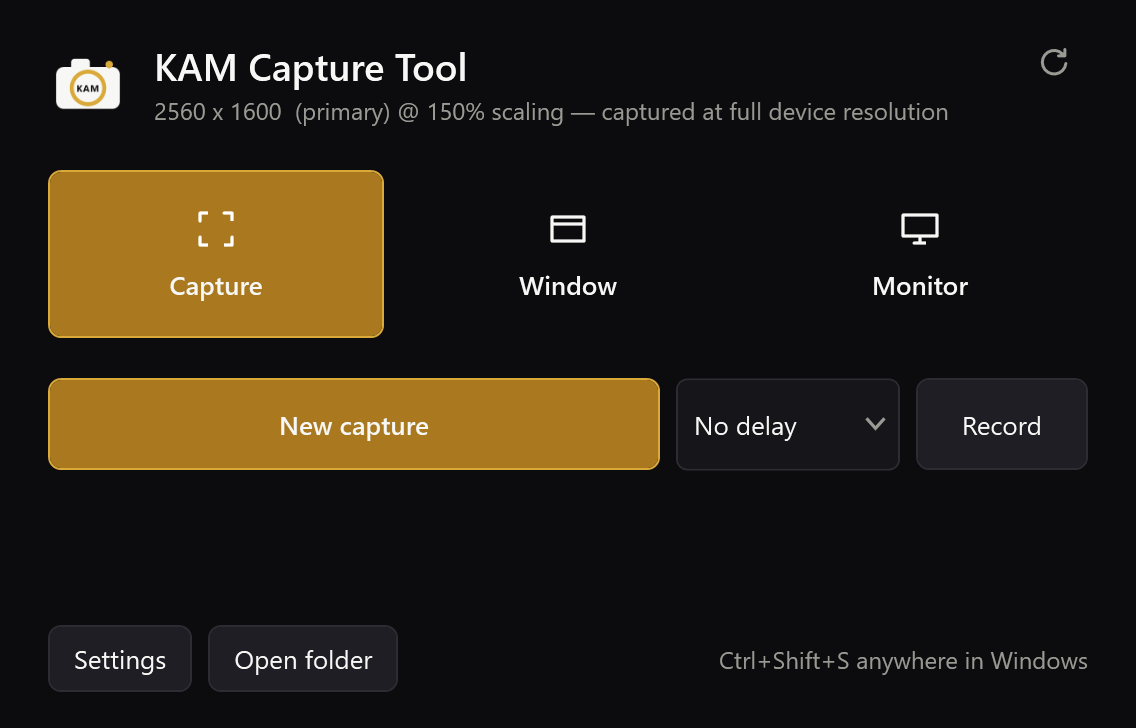
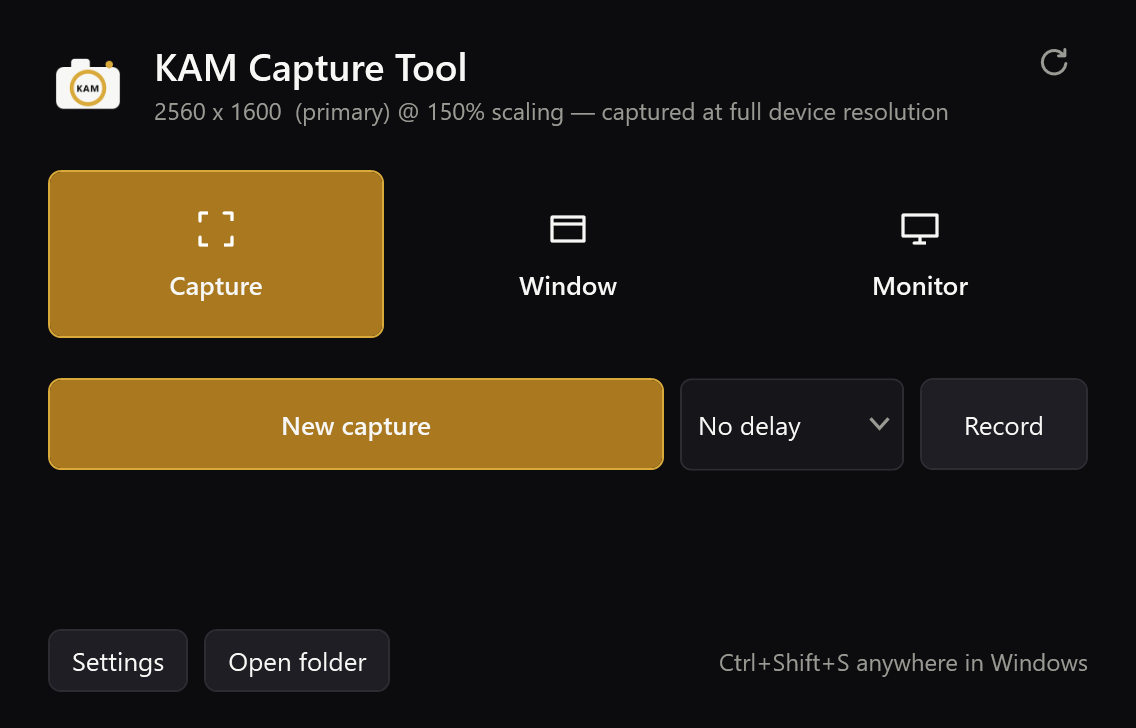
Give the interface a motion vocabulary, and build without warnings
Four durations, one easing, two properties. Press is 90ms of opacity and a 2%
scale down; release is 120ms back to rest; hover and state changes are a 140ms
fade. Hover is an overlay faded in rather than a colour swapped, which is what
makes it a transition instead of a flicker.

Only Opacity and RenderTransform are ever animated. Both compose on the render
thread; animating Width, Height or Margin would force a layout pass every frame,
which is where a smooth interface turns into a janky one. Nothing here animates
layout, and the rule is written down in Theme.xaml and CONTRIBUTING.

Caught while doing it: putting the checked look entirely in Trigger.EnterActions
meant a control created already checked never transitioned, so the storyboard
never ran and it rendered unchecked. Every checkbox in Settings and the selected
tool in the annotator were wrong. The trigger now sets the resting value and the
storyboard covers only the transition, with an explicit From and
FillBehavior=Stop. Verified against the previous renders, pixel for pixel.

The three nullable warnings in ColorWheelPicker were real ordering: handlers
were wired before the fields they capture existed. Harmless only because a
handler cannot fire during construction. The sliders are built before anything
is hooked up, and the build is clean.

Recording is unchanged at 150 frames in 5s across three runs, the same as before.

diff --git a/src/KamCapture/UI/Theme.xaml b/src/KamCapture/UI/Theme.xaml
@@ -25,6 +25,20 @@
 
     <sys:Double x:Key="Radius">6</sys:Double>
 
+    <!--
+      Motion vocabulary. Four durations, one easing, two properties.
+
+        press    90ms   opacity, plus a 2% scale down
+        release 120ms   back to rest
+        hover   140ms   an overlay faded in, never a colour swapped
+        state   140ms   checked and selected, the same fade
+
+      Only Opacity and RenderTransform are ever animated. Both compose on the
+      render thread and cost nothing measurable. Animating Width, Height or
+      Margin would force a layout pass every frame, which is where a smooth
+      interface turns into a janky one. Nothing here animates layout.
+    -->
+
     <!-- ===================== Button ===================== -->
     <Style TargetType="Button" x:Key="GhostButton">
         <Setter Property="Background" Value="{StaticResource PanelHi}"/>
@@ -39,22 +53,26 @@
         <Setter Property="Template">
             <Setter.Value>
                 <ControlTemplate TargetType="Button">
-                    <Border x:Name="b" Background="{TemplateBinding Background}"
-                            BorderBrush="{TemplateBinding BorderBrush}"
-                            BorderThickness="{TemplateBinding BorderThickness}"
-                            CornerRadius="6" Padding="{TemplateBinding Padding}">
-                        <ContentPresenter HorizontalAlignment="Center" VerticalAlignment="Center"/>
-                    </Border>
+                    <Grid x:Name="root" RenderTransformOrigin="0.5,0.5">
+                        <Grid.RenderTransform>
+                            <ScaleTransform x:Name="squash" ScaleX="1" ScaleY="1"/>
+                        </Grid.RenderTransform>
+                        <Border x:Name="b" Background="{TemplateBinding Background}"
+                                BorderBrush="{TemplateBinding BorderBrush}"
+                                BorderThickness="{TemplateBinding BorderThickness}" CornerRadius="6"/>
+                        <Border x:Name="hover" Background="#FF26262C" BorderBrush="#FF3A3A42"
+                                BorderThickness="{TemplateBinding BorderThickness}" CornerRadius="6"
+                                Opacity="0" IsHitTestVisible="False"/>
+                        <Border x:Name="press" Background="#FF17171C" CornerRadius="6"
+                                Opacity="0" IsHitTestVisible="False"/>
+                        <ContentPresenter Margin="{TemplateBinding Padding}"
+                                          HorizontalAlignment="Center" VerticalAlignment="Center"/>
+                    </Grid>
                     <ControlTemplate.Triggers>
-                        <Trigger Property="IsMouseOver" Value="True">
-                            <Setter TargetName="b" Property="Background" Value="#FF26262C"/>
-                            <Setter TargetName="b" Property="BorderBrush" Value="#FF3A3A42"/>
-                        </Trigger>
-                        <Trigger Property="IsPressed" Value="True">
-                            <Setter TargetName="b" Property="Background" Value="#FF17171C"/>
-                        </Trigger>
+                        <Trigger Property="IsMouseOver" Value="True"><Trigger.EnterActions><BeginStoryboard><Storyboard><DoubleAnimation Storyboard.TargetName="hover" Storyboard.TargetProperty="Opacity" To="1" Duration="0:0:0.14"><DoubleAnimation.EasingFunction><CubicEase EasingMode="EaseOut"/></DoubleAnimation.EasingFunction></DoubleAnimation></Storyboard></BeginStoryboard></Trigger.EnterActions><Trigger.ExitActions><BeginStoryboard><Storyboard><DoubleAnimation Storyboard.TargetName="hover" Storyboard.TargetProperty="Opacity" To="0" Duration="0:0:0.14"/></Storyboard></BeginStoryboard></Trigger.ExitActions></Trigger>
+                        <Trigger Property="IsPressed" Value="True"><Trigger.EnterActions><BeginStoryboard><Storyboard><DoubleAnimation Storyboard.TargetName="press" Storyboard.TargetProperty="Opacity" To="1" Duration="0:0:0.09"/><DoubleAnimation Storyboard.TargetName="squash" Storyboard.TargetProperty="ScaleX" To="0.98" Duration="0:0:0.09"/><DoubleAnimation Storyboard.TargetName="squash" Storyboard.TargetProperty="ScaleY" To="0.98" Duration="0:0:0.09"/></Storyboard></BeginStoryboard></Trigger.EnterActions><Trigger.ExitActions><BeginStoryboard><Storyboard><DoubleAnimation Storyboard.TargetName="press" Storyboard.TargetProperty="Opacity" To="0" Duration="0:0:0.12"/><DoubleAnimation Storyboard.TargetName="squash" Storyboard.TargetProperty="ScaleX" To="1" Duration="0:0:0.12"/><DoubleAnimation Storyboard.TargetName="squash" Storyboard.TargetProperty="ScaleY" To="1" Duration="0:0:0.12"/></Storyboard></BeginStoryboard></Trigger.ExitActions></Trigger>
                         <Trigger Property="IsEnabled" Value="False">
-                            <Setter TargetName="b" Property="Opacity" Value="0.45"/>
+                            <Setter TargetName="root" Property="Opacity" Value="0.45"/>
                             <Setter Property="Cursor" Value="Arrow"/>
                         </Trigger>
                     </ControlTemplate.Triggers>
@@ -71,21 +89,27 @@
         <Setter Property="Template">
             <Setter.Value>
                 <ControlTemplate TargetType="Button">
-                    <Border x:Name="b" Background="{TemplateBinding Background}"
-                            BorderBrush="{TemplateBinding BorderBrush}"
-                            BorderThickness="1" CornerRadius="6"
-                            Padding="{TemplateBinding Padding}">
-                        <ContentPresenter HorizontalAlignment="Center" VerticalAlignment="Center"/>
-                    </Border>
+                    <Grid x:Name="root" RenderTransformOrigin="0.5,0.5">
+                        <Grid.RenderTransform>
+                            <ScaleTransform x:Name="squash" ScaleX="1" ScaleY="1"/>
+                        </Grid.RenderTransform>
+                        <Border x:Name="b" Background="{TemplateBinding Background}"
+                                BorderBrush="{TemplateBinding BorderBrush}"
+                                BorderThickness="1" CornerRadius="6"/>
+                        <Border x:Name="hover" Background="{StaticResource Accent}" BorderBrush="{StaticResource Accent}"
+                                BorderThickness="1" CornerRadius="6"
+                                Opacity="0" IsHitTestVisible="False"/>
+                        <Border x:Name="press" Background="#FF8A6118" CornerRadius="6"
+                                Opacity="0" IsHitTestVisible="False"/>
+                        <ContentPresenter Margin="{TemplateBinding Padding}"
+                                          HorizontalAlignment="Center" VerticalAlignment="Center"/>
+                    </Grid>
                     <ControlTemplate.Triggers>
-                        <Trigger Property="IsMouseOver" Value="True">
-                            <Setter TargetName="b" Property="Background" Value="{StaticResource Accent}"/>
-                        </Trigger>
-                        <Trigger Property="IsPressed" Value="True">
-                            <Setter TargetName="b" Property="Background" Value="#FF8A6118"/>
-                        </Trigger>
+                        <Trigger Property="IsMouseOver" Value="True"><Trigger.EnterActions><BeginStoryboard><Storyboard><DoubleAnimation Storyboard.TargetName="hover" Storyboard.TargetProperty="Opacity" To="1" Duration="0:0:0.14"><DoubleAnimation.EasingFunction><CubicEase EasingMode="EaseOut"/></DoubleAnimation.EasingFunction></DoubleAnimation></Storyboard></BeginStoryboard></Trigger.EnterActions><Trigger.ExitActions><BeginStoryboard><Storyboard><DoubleAnimation Storyboard.TargetName="hover" Storyboard.TargetProperty="Opacity" To="0" Duration="0:0:0.14"/></Storyboard></BeginStoryboard></Trigger.ExitActions></Trigger>
+                        <Trigger Property="IsPressed" Value="True"><Trigger.EnterActions><BeginStoryboard><Storyboard><DoubleAnimation Storyboard.TargetName="press" Storyboard.TargetProperty="Opacity" To="1" Duration="0:0:0.09"/><DoubleAnimation Storyboard.TargetName="squash" Storyboard.TargetProperty="ScaleX" To="0.98" Duration="0:0:0.09"/><DoubleAnimation Storyboard.TargetName="squash" Storyboard.TargetProperty="ScaleY" To="0.98" Duration="0:0:0.09"/></Storyboard></BeginStoryboard></Trigger.EnterActions><Trigger.ExitActions><BeginStoryboard><Storyboard><DoubleAnimation Storyboard.TargetName="press" Storyboard.TargetProperty="Opacity" To="0" Duration="0:0:0.12"/><DoubleAnimation Storyboard.TargetName="squash" Storyboard.TargetProperty="ScaleX" To="1" Duration="0:0:0.12"/><DoubleAnimation Storyboard.TargetName="squash" Storyboard.TargetProperty="ScaleY" To="1" Duration="0:0:0.12"/></Storyboard></BeginStoryboard></Trigger.ExitActions></Trigger>
                         <Trigger Property="IsEnabled" Value="False">
-                            <Setter TargetName="b" Property="Opacity" Value="0.45"/>
+                            <Setter TargetName="root" Property="Opacity" Value="0.45"/>
+                            <Setter Property="Cursor" Value="Arrow"/>
                         </Trigger>
                     </ControlTemplate.Triggers>
                 </ControlTemplate>
@@ -108,21 +132,32 @@
         <Setter Property="Template">
             <Setter.Value>
                 <ControlTemplate TargetType="ToggleButton">
-                    <Border x:Name="b" Background="{TemplateBinding Background}"
-                            CornerRadius="6" BorderThickness="1" BorderBrush="Transparent">
+                    <Grid x:Name="root" RenderTransformOrigin="0.5,0.5">
+                        <Grid.RenderTransform>
+                            <ScaleTransform x:Name="squash" ScaleX="1" ScaleY="1"/>
+                        </Grid.RenderTransform>
+                        <Border x:Name="b" Background="{TemplateBinding Background}"
+                                CornerRadius="6" BorderThickness="1" BorderBrush="Transparent"/>
+                        <Border x:Name="hover" Background="#FF222228" CornerRadius="6"
+                                Opacity="0" IsHitTestVisible="False"/>
+                        <Border x:Name="on" Background="{StaticResource AccentDeep}"
+                                BorderBrush="{StaticResource Accent}" BorderThickness="1"
+                                CornerRadius="6" Opacity="0" IsHitTestVisible="False"/>
+                        <Border x:Name="press" Background="#FF000000" CornerRadius="6"
+                                Opacity="0" IsHitTestVisible="False"/>
                         <ContentPresenter HorizontalAlignment="Center" VerticalAlignment="Center"/>
-                    </Border>
+                    </Grid>
                     <ControlTemplate.Triggers>
-                        <Trigger Property="IsMouseOver" Value="True">
-                            <Setter TargetName="b" Property="Background" Value="#FF222228"/>
-                        </Trigger>
+                        <Trigger Property="IsMouseOver" Value="True"><Trigger.EnterActions><BeginStoryboard><Storyboard><DoubleAnimation Storyboard.TargetName="hover" Storyboard.TargetProperty="Opacity" To="1" Duration="0:0:0.14"><DoubleAnimation.EasingFunction><CubicEase EasingMode="EaseOut"/></DoubleAnimation.EasingFunction></DoubleAnimation></Storyboard></BeginStoryboard></Trigger.EnterActions><Trigger.ExitActions><BeginStoryboard><Storyboard><DoubleAnimation Storyboard.TargetName="hover" Storyboard.TargetProperty="Opacity" To="0" Duration="0:0:0.14"/></Storyboard></BeginStoryboard></Trigger.ExitActions></Trigger>
                         <Trigger Property="IsChecked" Value="True">
-                            <Setter TargetName="b" Property="Background" Value="{StaticResource AccentDeep}"/>
-                            <Setter TargetName="b" Property="BorderBrush" Value="{StaticResource Accent}"/>
                             <Setter Property="Foreground" Value="White"/>
+                            <Setter TargetName="on" Property="Opacity" Value="1"/>
+                            <Trigger.EnterActions><BeginStoryboard><Storyboard><DoubleAnimation Storyboard.TargetName="on" Storyboard.TargetProperty="Opacity" From="0" To="1" Duration="0:0:0.14" FillBehavior="Stop"><DoubleAnimation.EasingFunction><CubicEase EasingMode="EaseOut"/></DoubleAnimation.EasingFunction></DoubleAnimation></Storyboard></BeginStoryboard></Trigger.EnterActions>
+                            <Trigger.ExitActions><BeginStoryboard><Storyboard><DoubleAnimation Storyboard.TargetName="on" Storyboard.TargetProperty="Opacity" From="1" To="0" Duration="0:0:0.14" FillBehavior="Stop"></DoubleAnimation></Storyboard></BeginStoryboard></Trigger.ExitActions>
                         </Trigger>
+                        <Trigger Property="IsPressed" Value="True"><Trigger.EnterActions><BeginStoryboard><Storyboard><DoubleAnimation Storyboard.TargetName="press" Storyboard.TargetProperty="Opacity" To="0.18" Duration="0:0:0.09"/><DoubleAnimation Storyboard.TargetName="squash" Storyboard.TargetProperty="ScaleX" To="0.96" Duration="0:0:0.09"/><DoubleAnimation Storyboard.TargetName="squash" Storyboard.TargetProperty="ScaleY" To="0.96" Duration="0:0:0.09"/></Storyboard></BeginStoryboard></Trigger.EnterActions><Trigger.ExitActions><BeginStoryboard><Storyboard><DoubleAnimation Storyboard.TargetName="press" Storyboard.TargetProperty="Opacity" To="0" Duration="0:0:0.12"/><DoubleAnimation Storyboard.TargetName="squash" Storyboard.TargetProperty="ScaleX" To="1" Duration="0:0:0.12"/><DoubleAnimation Storyboard.TargetName="squash" Storyboard.TargetProperty="ScaleY" To="1" Duration="0:0:0.12"/></Storyboard></BeginStoryboard></Trigger.ExitActions></Trigger>
                         <Trigger Property="IsEnabled" Value="False">
-                            <Setter TargetName="b" Property="Opacity" Value="0.4"/>
+                            <Setter TargetName="root" Property="Opacity" Value="0.4"/>
                         </Trigger>
                     </ControlTemplate.Triggers>
                 </ControlTemplate>
@@ -166,20 +201,30 @@
             <Setter.Value>
                 <ControlTemplate TargetType="CheckBox">
                     <StackPanel Orientation="Horizontal" Background="Transparent">
-                        <Border x:Name="box" Width="17" Height="17" CornerRadius="4"
-                                Background="#FF121216" BorderBrush="{StaticResource Edge}"
-                                BorderThickness="1" VerticalAlignment="Center">
+                        <Grid Width="17" Height="17" VerticalAlignment="Center">
+                            <Border x:Name="box" CornerRadius="4" Background="#FF121216"
+                                    BorderBrush="{StaticResource Edge}" BorderThickness="1"/>
+                            <Border x:Name="fill" CornerRadius="4" Background="{StaticResource AccentDeep}"
+                                    BorderBrush="{StaticResource Accent}" BorderThickness="1"
+                                    Opacity="0" IsHitTestVisible="False"/>
                             <Path x:Name="tick" Data="M 2,6 L 6,10 L 13,2" Stroke="White"
-                                  StrokeThickness="2" Visibility="Collapsed"
-                                  StrokeEndLineCap="Round" StrokeStartLineCap="Round"/>
-                        </Border>
+                                  StrokeThickness="2" Opacity="0" IsHitTestVisible="False"
+                                  HorizontalAlignment="Left" VerticalAlignment="Top" Margin="1,1,0,0"
+                                  RenderTransformOrigin="0.5,0.5"
+                                  StrokeEndLineCap="Round" StrokeStartLineCap="Round">
+                                <Path.RenderTransform>
+                                    <ScaleTransform x:Name="tickScale" ScaleX="1" ScaleY="1"/>
+                                </Path.RenderTransform>
+                            </Path>
+                        </Grid>
                         <ContentPresenter Margin="8,0,0,0" VerticalAlignment="Center"/>
                     </StackPanel>
                     <ControlTemplate.Triggers>
                         <Trigger Property="IsChecked" Value="True">
-                            <Setter TargetName="box" Property="Background" Value="{StaticResource AccentDeep}"/>
-                            <Setter TargetName="box" Property="BorderBrush" Value="{StaticResource Accent}"/>
-                            <Setter TargetName="tick" Property="Visibility" Value="Visible"/>
+                            <Setter TargetName="fill" Property="Opacity" Value="1"/>
+                            <Setter TargetName="tick" Property="Opacity" Value="1"/>
+                            <Trigger.EnterActions><BeginStoryboard><Storyboard><DoubleAnimation Storyboard.TargetName="fill" Storyboard.TargetProperty="Opacity" From="0" To="1" Duration="0:0:0.14" FillBehavior="Stop"><DoubleAnimation.EasingFunction><CubicEase EasingMode="EaseOut"/></DoubleAnimation.EasingFunction></DoubleAnimation><DoubleAnimation Storyboard.TargetName="tick" Storyboard.TargetProperty="Opacity" From="0" To="1" Duration="0:0:0.14" FillBehavior="Stop"><DoubleAnimation.EasingFunction><CubicEase EasingMode="EaseOut"/></DoubleAnimation.EasingFunction></DoubleAnimation><DoubleAnimation Storyboard.TargetName="tickScale" Storyboard.TargetProperty="ScaleX" From="0.6" To="1" Duration="0:0:0.14" FillBehavior="Stop"><DoubleAnimation.EasingFunction><BackEase EasingMode="EaseOut" Amplitude="0.6"/></DoubleAnimation.EasingFunction></DoubleAnimation><DoubleAnimation Storyboard.TargetName="tickScale" Storyboard.TargetProperty="ScaleY" From="0.6" To="1" Duration="0:0:0.14" FillBehavior="Stop"><DoubleAnimation.EasingFunction><BackEase EasingMode="EaseOut" Amplitude="0.6"/></DoubleAnimation.EasingFunction></DoubleAnimation></Storyboard></BeginStoryboard></Trigger.EnterActions>
+                            <Trigger.ExitActions><BeginStoryboard><Storyboard><DoubleAnimation Storyboard.TargetName="fill" Storyboard.TargetProperty="Opacity" From="1" To="0" Duration="0:0:0.14" FillBehavior="Stop"></DoubleAnimation><DoubleAnimation Storyboard.TargetName="tick" Storyboard.TargetProperty="Opacity" From="1" To="0" Duration="0:0:0.10" FillBehavior="Stop"></DoubleAnimation><DoubleAnimation Storyboard.TargetName="tickScale" Storyboard.TargetProperty="ScaleX" From="1" To="0.6" Duration="0:0:0.10" FillBehavior="Stop"></DoubleAnimation><DoubleAnimation Storyboard.TargetName="tickScale" Storyboard.TargetProperty="ScaleY" From="1" To="0.6" Duration="0:0:0.10" FillBehavior="Stop"></DoubleAnimation></Storyboard></BeginStoryboard></Trigger.ExitActions>
                         </Trigger>
                         <Trigger Property="IsMouseOver" Value="True">
                             <Setter TargetName="box" Property="BorderBrush" Value="{StaticResource Accent}"/>

diff --git a/src/KamCapture/Controls/ColorWheelPicker.cs b/src/KamCapture/Controls/ColorWheelPicker.cs
@@ -57,33 +57,36 @@ namespace KamCapture.Controls
 
             var root = new StackPanel { Margin = new Thickness(12) };
 
+            // Build all three first. Each handler reads the other two, and
+            // wiring them before the fields exist is what the nullable warnings
+            // were pointing at — harmless at run time, but only because the
+            // handlers cannot fire during construction.
             _wheel = new WheelSurface { Width = 190, Height = 190, HorizontalAlignment = HorizontalAlignment.Center };
-            _wheel.Picked += (h, s) =>
-            {
-                var c = FromHsv(h, s, _value.Value, (byte)_alpha.Value);
-                SetColorInternal(c, fromWheel: true);
-            };
-            root.Children.Add(_wheel);
-
-            root.Children.Add(MakeLabel("Brightness"));
             _value = MakeSlider(0, 1, 1);
+            _alpha = MakeSlider(0, 255, 255);
+            _alpha.Visibility = Visibility.Collapsed;
+
+            _wheel.Picked += (h, s) =>
+                SetColorInternal(FromHsv(h, s, _value.Value, (byte)_alpha.Value), fromWheel: true);
+
             _value.ValueChanged += (_, _) =>
             {
                 if (_suppress) return;
                 _wheel.Value = _value.Value;
                 SetColorInternal(FromHsv(_wheel.Hue, _wheel.Sat, _value.Value, (byte)_alpha.Value), true);
             };
-            root.Children.Add(_value);
 
-            root.Children.Add(MakeLabel("Opacity"));
-            _alpha = MakeSlider(0, 255, 255);
             _alpha.ValueChanged += (_, _) =>
             {
                 if (_suppress) return;
                 SetColorInternal(FromHsv(_wheel.Hue, _wheel.Sat, _value.Value, (byte)_alpha.Value), true);
             };
+
+            root.Children.Add(_wheel);
+            root.Children.Add(MakeLabel("Brightness"));
+            root.Children.Add(_value);
+            root.Children.Add(MakeLabel("Opacity"));
             root.Children.Add(_alpha);
-            _alpha.Visibility = Visibility.Collapsed;
 
             var row = new Grid { Margin = new Thickness(0, 10, 0, 0) };
             row.ColumnDefinitions.Add(new ColumnDefinition { Width = new GridLength(34) });

diff --git a/CONTRIBUTING.md b/CONTRIBUTING.md
@@ -113,6 +113,16 @@ These are the ones worth knowing before a first change.
    inside an existing surface — the way thirty symbols live behind one button —
    rather than as another toolbar item.
 6. **Comments explain why.** What the code does is readable from the code.
+7. **Animate opacity and transforms, nothing else.** Both compose on the render
+   thread and cost nothing measurable. Animating `Width`, `Height` or `Margin`
+   forces a layout pass every frame, which is where a smooth interface turns
+   into a janky one. Durations live in the comment at the top of `Theme.xaml`;
+   stay inside them.
+8. **A state that only lives in `Trigger.EnterActions` does not exist.** A
+   control created already in that state never transitions, so the storyboard
+   never runs and the control renders wrong. Set the resting value with a
+   `Setter` and let the storyboard cover only the transition, with an explicit
+   `From` and `FillBehavior="Stop"`.
 
 ## Style
 
